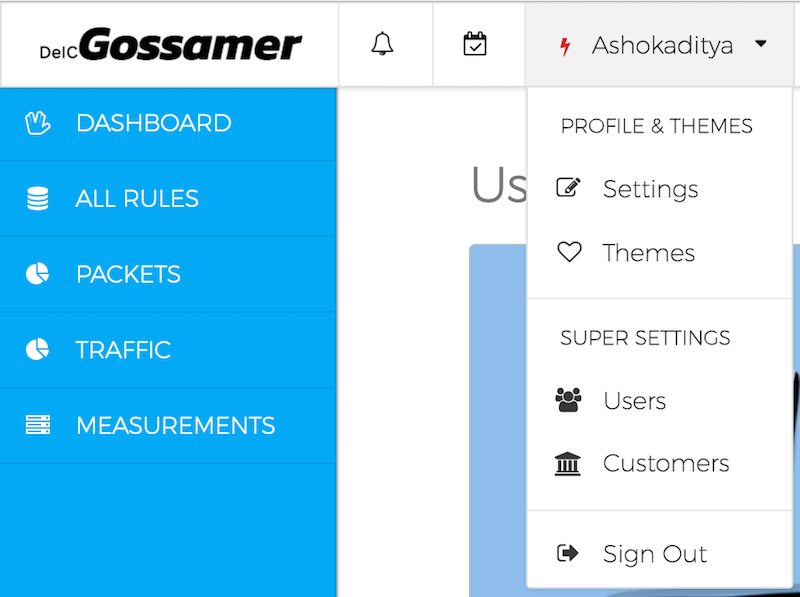
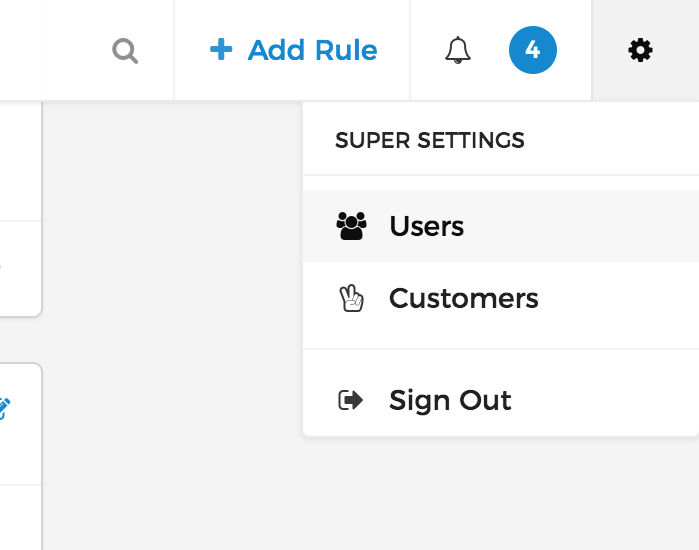
udpated readme with newest screeshots and gifs

diff --git a/readme.md b/readme.md
@@ -5,30 +5,26 @@ Built using [Ember.js](http://emberjs.com/) framework that incorporates common i
 
 Let us now get on with the application’s front-end structure and design. Below is a screenshot of one of the sections of the app.
 
-## Topbar
-Along with the app logo, this section displays notification counts, and a quick link for adding a /flowspec/ rule, denoted with a calendar icon. The logged in user’s first name is displayed along with an icon that denotes the user’s role or access rights to the app and database.
+## Top Navigation
+Along with the app logo, this section displays notification counts, and a quick link for adding a /flowspec/ rule.
 
 ![](public/readme/user-menu.png)
 
-In the above screenshot, the user is a global admin and hence can see the /super settings/ section. 
+### Search
+A site wide search bar that lets users to query rules by name, protocol, timestamp etc.
 
-### Settings
-
-Allows for configuring app settings such as notification timers, notification triggers, etc.
-
-Also allows a user to read through the application manual, FAQs and post queries that would be addressed by the development and support team to respond to.
-
-### Themes
-
-This section is intended for customising background colour of the sidebar, if a user prefers more or less contrast for better readability.
-
-### Plan/Schedule Rules
+### Add Rule
 
 This section allows a user to add a rule over the networks assigned to that user. A user can be assigned networks by a global admin or a db admin. A network admin is the lowest level of access that can only view and add rules over her own networks.
+
+![](public/readme/Add-rules.png)
 
 Basically each global admin can create customers and their networks. Each customer has a database admin that has access over all networks of her customer. A db admin in turn creates many network admins under him or her who have access over specific networks under a customer.
 
 Thus in short if you are logged in the client app you can only pick and choose your own assigned networks to add rules on. Adding rules to unassigned networks is simply not possible.
+
+There are also several small features included in the form to help create a rule in an efficient and easy way.
+For example, a user simply can not add a rule on a network that is not assigned to her; only relevant fields for each protocol are visible when creating a rule; default duration for a rule can be 10 minutes etc.
 
 ### Users (only for global admins)
 
@@ -38,64 +34,86 @@ This section displays info about all kinds of users in the database. Also, their
 
 A global admin can edit a user’s access rights.  A db admin can only edit the user’s customer and networks a network admin is assigned with.
 
-Here you can see a user is selected, marked by a blue outline and vertical translation of the user card. The edit form shows the name of the selected user, admin rights, customer and networks assigned to him. A db admin could change the assigned networks to this admin as seen in the screenshot below.
+Here you can see a user is selected, marked by a blue bottom border. The edit form shows the name of the selected user, admin rights, customer and networks assigned to him. A db admin could change the assigned networks to this admin as seen in the screenshot below.
 
-![](public/readme/edit-user-network.png)
+![](public/readme/edit-user.png)
 
-### Customers (only for global admins)
+You could also activate and deactivate a user. A deactivated user can not be edited and the user details are faded out.
 
-This section allows for creating new customers and their networks, as well as create new networks for an existing customer.
+![](public/readme/notifications.png)
+
+### Customers (only for db and global admins)
 
 ![](public/readme/customers.png)
 
-The below screen shows the added network on a selected customer 'DeIC'. When a user clicks edit user, all the newly added networks would be added to the database in a single request.
+This section allows for creating new customers and their networks, as well as create new networks for an existing customer.
 
-![](public/readme/selected-edited-customer.png)
+![](public/readme/edit-customers.png)
 
-## Sidebar
-This allows the user to access key views quickly. It is responsive and can be used over a small screen equally well. The intuitive icons allow for least cognitive load so that the user can navigate intuitively.
+Screenshot below shows the added dummy network `Skynet` on a selected customer 'DeIC'. When a user clicks Save, all the other changes to the customer is saved to the server.
 
-The names of each item on the sidebar are descriptive in terms of what resource it shows and lets the user interact with. For example, analytics pages are denoted with a pie chart icon.
+![](public/readme/add-edit-customer-networks.png)
+
+## Side Navigation
+
+The logged in user’s first name is displayed on a hover tooltip. An icon that denotes the user’s role or access rights is seen below the user's pic thumbnail.
+
+The side nav links allow access to key views. It is responsive and can be used over a small screen equally well. The intuitive icons allow for least cognitive load. On mouseover you can also see what view the icons link to.
+
+In the above screenshot, the user is a global admin and hence can see the top `users` sub menu.
 
 ### Dashboard
 
-This section shows the most relevant network information. Metrics such as throughput, incoming and outgoing packets etc. that are essential for network analysis and mitigation of attacks are displayed here. Some charts are shown by default but a user can add or remove their own favourite charts here so that they can get a quick overview of what is going on.
-
-We are working on adding time range and other relevant filters to each chart. Also when a user clicks on a data point then a popup must display the rules that were created because of the anomaly and clicking on that popup must navigate the user to the specific rule in the /all rules/ section.
+This section shows the most relevant network information as data-visuals. Metrics such as throughput, incoming and outgoing packets etc. that are essential for network analysis and mitigation of attacks are displayed here. Some data-visual are shown by default but a user can add or remove their own favorite data-visuals here so that they can get a quick overview of what is going on.
 
 ![](public/readme/dashboard.png)
 
-We are going to add a feature where a user can build her own chart and add it to her dashboard. 
+At the top you see widgets that show counts of most important information that the user wants to see.
+A global user would see db wide stats like in this screenshot.
 
-### All Rules
+When the page loads, the *dataviz* widgets show the the latest snapshot from the `influxdb` server. You can then toggle the data to stream live on intervals of 10 seconds, 30 seconds and 1 minute for each *dataviz* widget.
+
+Also, you can zoom and brush into a data-visual to inspect data points in finer detail. This is particularly helpful when you have a large volume of data spread over a small time range. You can see the top left *dataviz* widget is brushed to show more detail.
+
+We are working on displaying a popup with details of the anomaly that created any specific data point on the graph. This popup will let the user navigate to the rule in the `Rules` section.
+
+We are also working on a feature where a user can build her own data-visual and add it to her dashboard.
+
+### Rules
 
 This section displays all *flowspec* rules that exist in the rules database. 
 
-![](public/readme/all-rules.png)
+![](public/readme/Rules.png)
 
-The top section shows 6 most recently active rules that were created by the detection engine (we use *fastnetmon*) during a DDoS attack or an anomalous request; and each card corresponds to all attacks grouped by destination ip addresses, and a specific time range. 
+The top section shows 10 most recently active rules that were created by the detection engine (we use *fastnetmon*) during a DDoS attack or an anomalous request; and each card corresponds to all attacks grouped by destination ip addresses, and a specific time range. 
 
-Each of these rules are displayed as a /card/, with the range of affected ports displayed as a sticker counter on the top right section of the card. A rule /card/ has the most relevant information that a user may need to see quickly, such as the attack protocol, port range on each destination IP that were attacked, the time the rule was enforced, how long it was active for, what action the rule performed in mitigating the anomalous behaviour and its name. The card also shows the range of packet lengths and source and destination IP addresses. In case some of the values are empty or were not relevant for the rule creation it is replaced by en ellipsis. 
+Each of these rules are displayed as a /card/, with the range of affected ports displayed as a sticker counter on the top right section of the card. A rule /card/ has the most relevant information that a user may need to see quickly, such as the attack protocol, port range on each destination IP that were attacked, the time the rule was enforced, how long it was active for, what action the rule performed in mitigating the anomalous behavior and its name. The card also shows the range of packet lengths and source and destination IP addresses. In case some of the values are empty or were not relevant for the rule creation it is replaced by en ellipsis. 
 
-The second section shows earlier active attacks with a little less information than shown in a /card/ version of the the rule. Mouse over on the list item are indicated with subtle colour cues based on the severity of the attack that generated the rule. This is to help the user to take necessary steps according to priority of attack.
+The duration the rule is also shown as a auto updating progress bar, that shifts color from grey to blue as the rule runs to completion. If a user has switches on to 'Refreshing...', then the completed rule cards disappear from the screen. The completed rules card stay on screen otherwise. 
 
-![](public/readme/rule-list.png)
+![](public/readme/rules-update.gif)
 
-Since there are typically several thousand rules in the database, the archive view is lazy loaded and also allows for filtering of the list based on all the information points seen on screen. One can filter the rules based on a date range, protocol, ip address, packet length range or number of affected ports. Or one could combine all the available filters to narrow the list even further.
+You can also clear an active rule using the `clear rule` button that is available to each active rule card.
+
+![](public/readme/Clearing-Rules.png)
+
+Here is a clear rule in action.
+
+![](public/readme/rules-clear.gif)
+
+The second section shows earlier active attacks with a little less information than shown in a /card/ version of the the rule. The list items are responsive and render like a card on smaller screen sizes.
+
+![](public/readme/resp-rules-item.png)
+
+Since there are typically several thousand rules in the database, the archive view is lazy loaded and also allows for filtering of the list based on all the information seen on screen. One can filter the rules based on a date range, protocol, ip address, packet length range or number of affected ports. Or one could combine all the available filters to narrow the list even further.
 
 ![](public/readme/more-rules.png)
 
-### Plan Rules
+### Other Analytics
 
-This section would allow adding *flowspec* rules to the PostgreSQL database. This is in case a user wants to create a rule that should trigger on a specific date and time. 
+There are other relevant reports/data-visuals that can be quickly accessed using the side navigation. Such that the data presented in each report can be refined to a user’s interest and need.
 
-Since a rule when being added updated more than one table in the database, this action is restricted to the privilege of the user logged in.
-
-### Charts
-
-The idea is to create several relevant reports/charts that can be quickly accessed using the main navigation. Such that the data presented in each report can be tweaked even more to a user’s interest and need.
-
-For instance, a chart that shows the top ten IPs that report incoming packets/sec over a 1-hour window could be modified to show incoming IPs over a single (multiple) specific IP(s) over a specific time range (day, week etc) . One can add more measurements into it such as protocol.
+For instance, a data-visual that shows the top ten IPs by incoming packets/sec over a 1-hour window could be modified to show incoming IPs over a single (multiple) specific IP(s) over a specific time range (day, week etc). One can add more measurements to such a data-visual such as protocol.
 
 Each report will have several intuitive filters that allow for fine tuning the report as a user sees fit.
 
@@ -124,7 +142,7 @@ You will need the following things properly installed on your computer.
 ### Semantic-UI
 * `npm install -g gulp`
 * pull out a terminal window and goto the project directory and then do `cd /bower_components/semantic-ui`
-* run `npm install` and follow the default instrctions to install
+* run `npm install` and follow the default instructions to install
 * `Yes, extend my current settings.`
 * `Automatic (Use defaults locations and all components)`
 * `Do not remove Setup Files`
